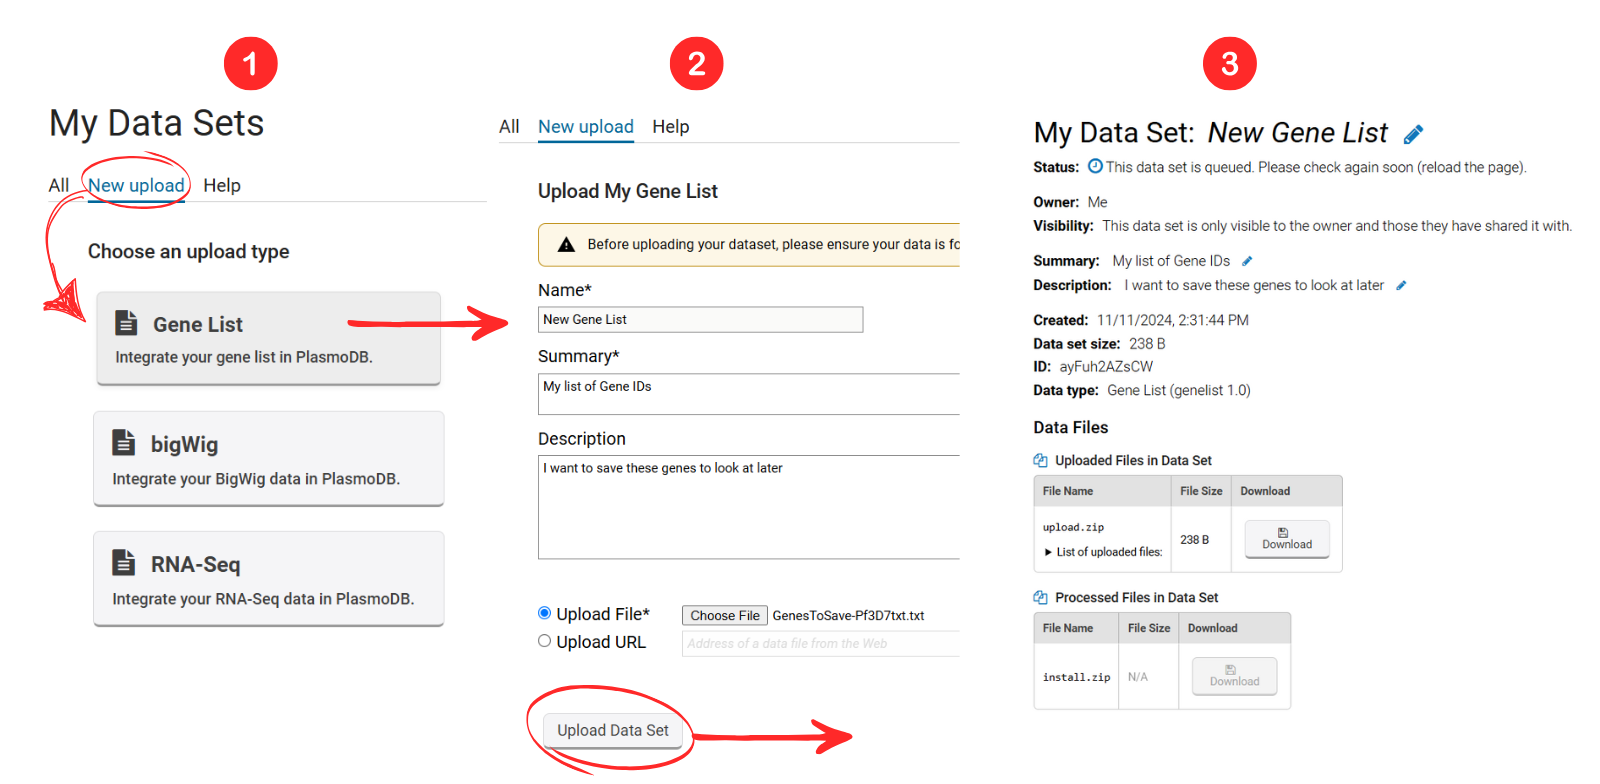
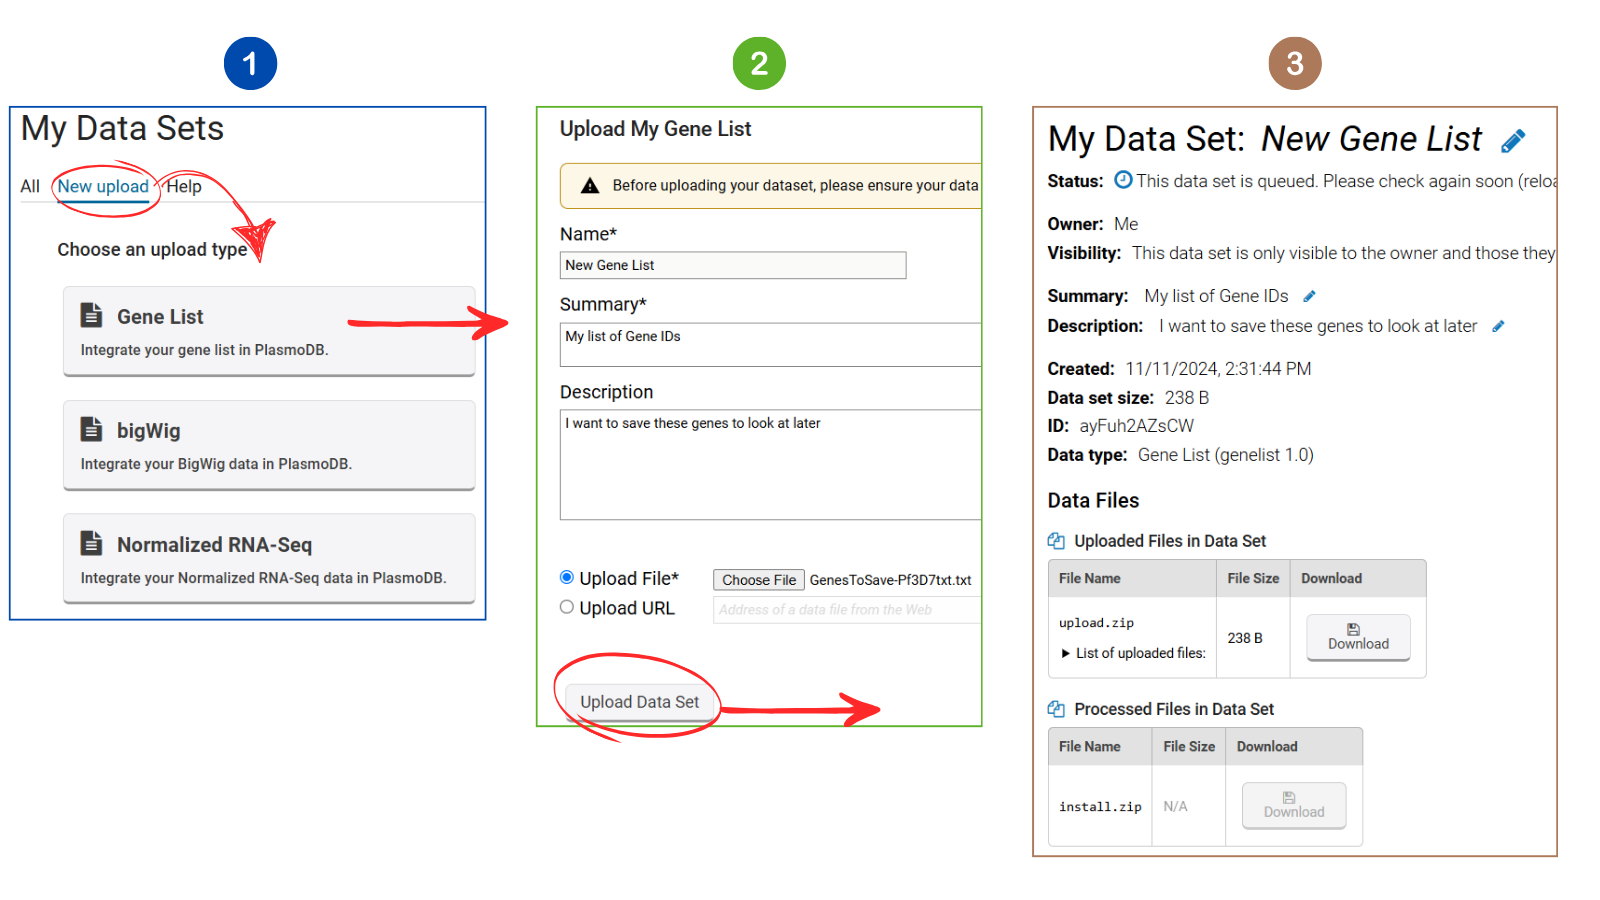
RNA seq description and new images

Changed region(s): [[0.0, 0.0306, 1.0, 0.9796], [0.3438, 0.8878, 0.5312, 1.0], [0.3438, 0.8571, 0.4062, 0.8878]]

diff --git a/content/common/user_datasets_help.md b/content/common/user_datasets_help.md
@@ -105,12 +105,12 @@ div.UserDatasetHelp img {
     <br><hr>
 
   <h3>Upload an RNA-Seq data to My Data Sets</h3>
-  <img src="{{'/assets/images/MyDataSets/RNA_Seq.png' | absolute_url}}" />
+  <img src="{{'/assets/images/MyDataSets/RNAseqUpload.png' | absolute_url}}" />
     <br>
     <ol type="1">
       <li>Open the New Upload tab in your My Data Sets workspace. Choose <b>RNA-Seq: Integrate your RNA-Seq data.</b></li>
-      <li>Complete the Upload My RNA-Seq form. Name, Summary and Upload File/URL are required. The zip file with your RNASeq results should three types of files: bigWig, counts and index. The counts files of FPKM/TPM files should be a tab-delimited file with two columns: gene IDs, and normalized counts. The first line must have column headings 'gene_id' and either 'FPKM' or 'TMP'.. Upload Data Set initiates the transfer and will add the bigWig file as a data set in table on your My Data Sets page.     FPKM/TPM  processed reads (counts), manifest </li>
-      <li>The record page for your new data set opens immediately but the file installation may take some time. blah </li>
+      <li>Complete the Upload My Normalized RNA-Seq form. Name, Summary and Upload File/URL are required. Three types of files &ndash; bigWig, counts and index &ndash; are supported in the uploaded zip file. BigWig files are not required but will allow visualization in the genome browser if included. The counts (FPKM/TPM) files should be tab-delimited and contain two columns with column headers: 'gene_id', and either 'FPKM' or 'TMP'. The index file should be named manifest.txt and consist of a tab delimited txt file with three columns (no column headers): sample name, filename, and strandedness (unstranded/stranded). Upload Data Set initiates the transfer and will create a record page for your data set that contains links to the fold change search, and bigWig files if included. </li>
+      <li>The record page for your new data set opens immediately but the file installation may take some time. When the Status changes to 'This data set is installed...', navigation to the fold change search and the bigWig data (if included).</li>
     </ol>
     <br><hr>
 
